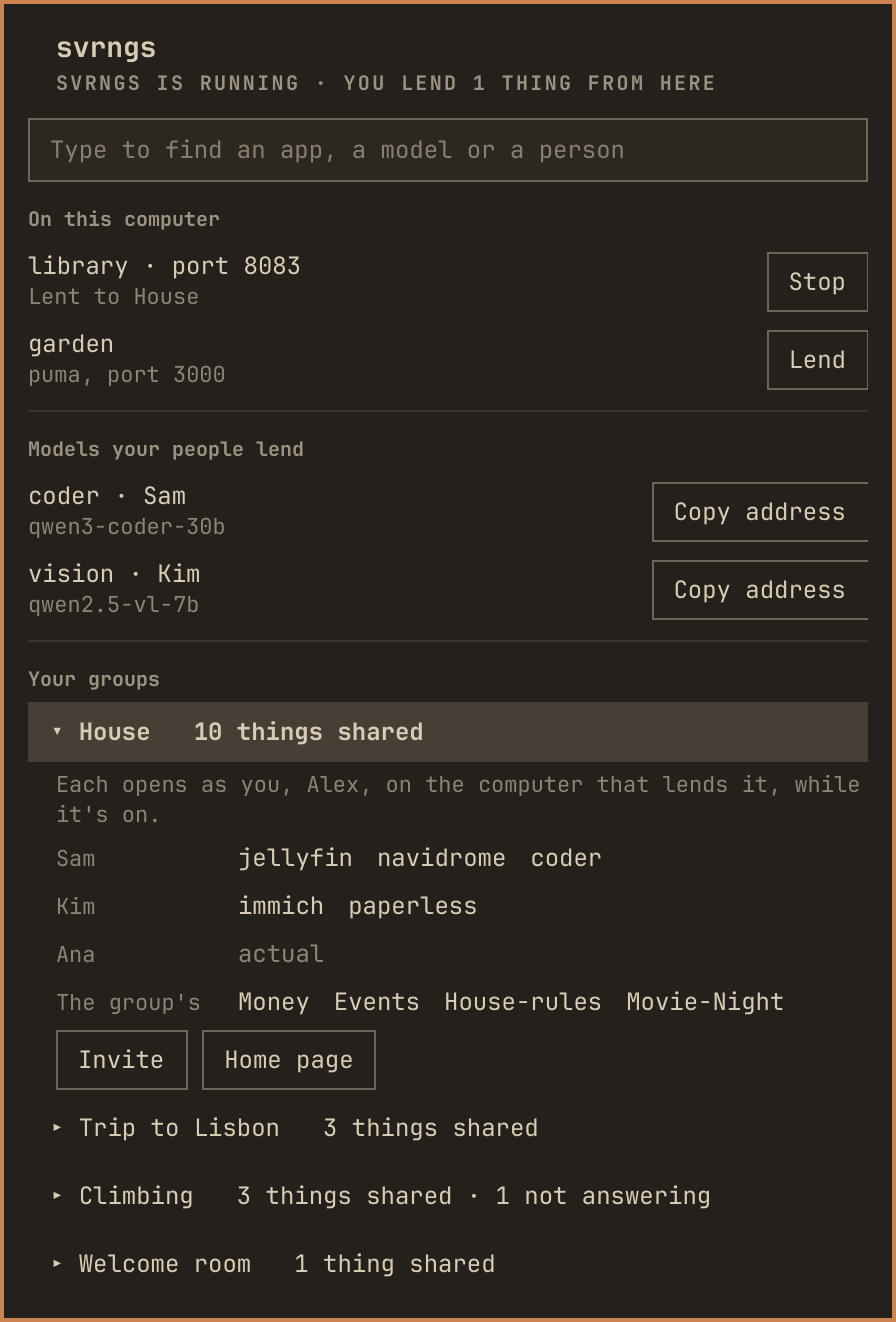
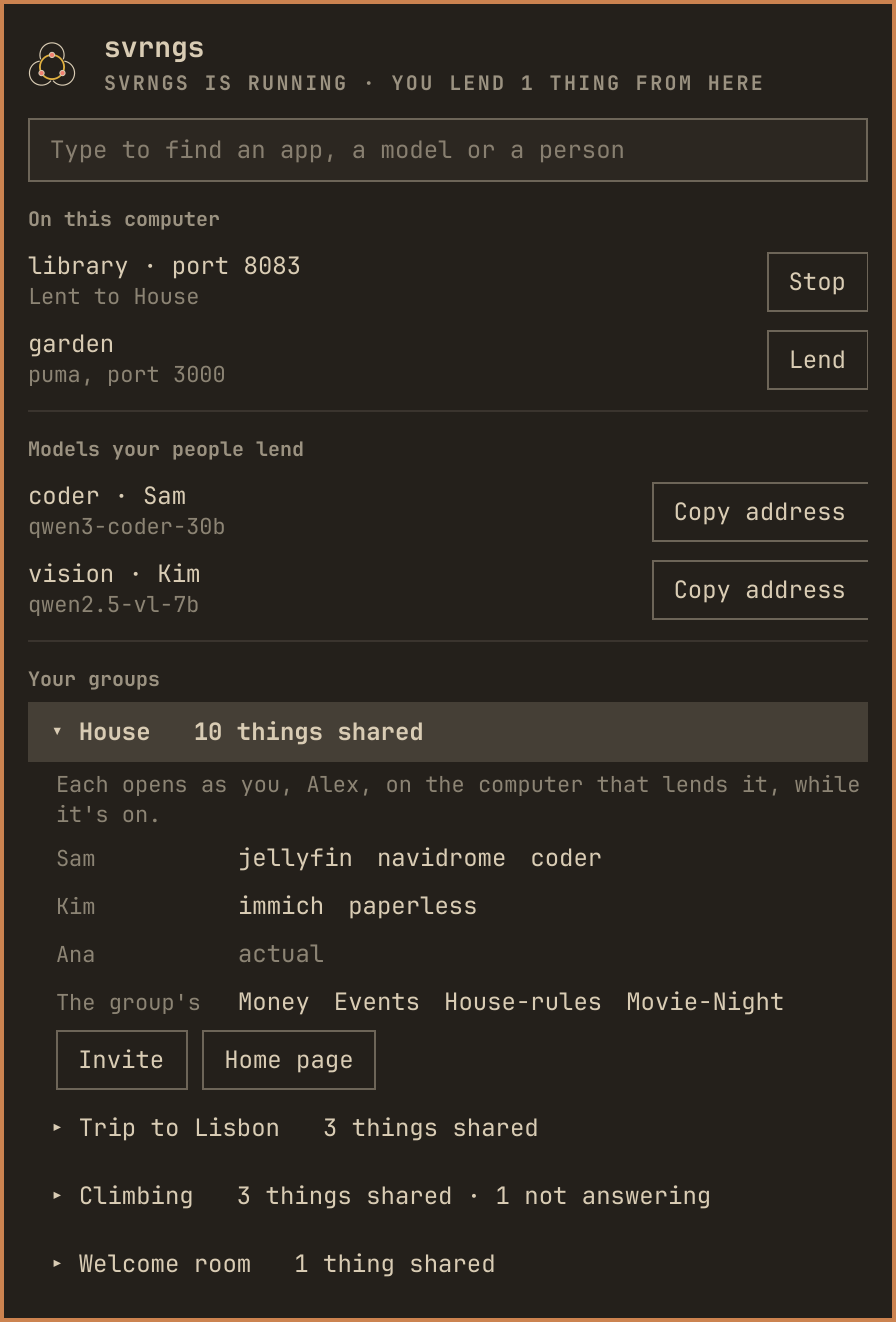
svrngs's mark: in the bar with its gold record, in the panel's header and the README
The bar's icon is svrngs's mark (svrngs docs/brand, the small cut for
under 32 px), drawn in QML from its own geometry (SvrngsMark.qml) in the
bar's ink with its record ring gold, both dimmed while svrngs isn't
running, the bar's warning colour when its answer couldn't be read, and a
slash when it isn't on the computer. It was picked from a study of four
drawings in four states at the bar's 12 px. In Omarchy's own button its
centring error is 0 by 0, as the font glyph's was. The panel's header
carries the medium cut in its own colours, and preview.png is redrawn.

The README opens with the lockup, a light and a dark copy for GitHub's
two themes (brand/). The launcher's icon belongs to svrngs-bin, which is
svrngs's packaging/arch now, so it is proposed there.

Tests: panel 88, with the gold, its dimming and the warning ink.

diff --git a/SvrngsMark.qml b/SvrngsMark.qml
@@ -1,0 +1,86 @@
+import QtQuick
+import QtQuick.Shapes
+
+// svrngs's mark, drawn from its own geometry (svrngs docs/brand/src/mark.mjs,
+// as mark-small.svg and mark-medium.svg draw it): three people, each a dot
+// with a ring, and the gold ring of the record they keep. `cut` is "small"
+// under 32 px, "medium" from 32 px (docs/brand/README.md, "One cut per
+// size"). Each colour is its own, so the bar can draw it in one ink.
+Item {
+  id: root
+
+  property real size: 16
+  property string cut: "small"
+  property color ink: "white"
+  property color record: "gold"
+  property color people: "salmon"
+  // A slash across it, in its ink: svrngs not on this computer.
+  property bool crossed: false
+
+  readonly property bool small: cut === "small"
+  // Each cut's viewBox: its origin and side.
+  readonly property real boxX: small ? -94.84 : -91.34
+  readonly property real boxY: small ? -106.34 : -102.84
+  readonly property real box: small ? 189.67 : 182.67
+  readonly property real recordWidth: small ? 14 : 7
+  readonly property real ringWidth: small ? 12 : 4.5
+  readonly property real dot: small ? 14 : 10
+  readonly property real dotWidth: small ? 6 : 4
+  readonly property var rings: small
+    ? ["M-44.71 -35.2 A46 46 0 1 1 44.71 -35.2", "M52.84 -21.12 A46 46 0 1 1 8.12 56.32", "M-8.12 56.32 A46 46 0 1 1 -52.84 -21.12"]
+    : ["M-42.87 -29.33 A46 46 0 1 1 42.87 -29.33", "M46.84 -22.46 A46 46 0 1 1 3.96 51.79", "M-3.96 51.79 A46 46 0 1 1 -46.84 -22.46"]
+
+  width: size
+  height: size
+  implicitWidth: size
+  implicitHeight: size
+
+  Shape {
+    width: root.box
+    height: root.box
+    preferredRendererType: Shape.CurveRenderer
+    transform: [
+      Translate { x: -root.boxX; y: -root.boxY },
+      Scale { xScale: root.size / root.box; yScale: root.size / root.box }
+    ]
+
+    ShapePath {
+      strokeColor: root.record
+      strokeWidth: root.recordWidth
+      fillColor: "transparent"
+      PathAngleArc { radiusX: 46; radiusY: 46; startAngle: 0; sweepAngle: 360 }
+    }
+    ShapePath {
+      strokeColor: root.ink; strokeWidth: root.ringWidth; fillColor: "transparent"; capStyle: ShapePath.FlatCap
+      PathSvg { path: root.rings[0] }
+    }
+    ShapePath {
+      strokeColor: root.ink; strokeWidth: root.ringWidth; fillColor: "transparent"; capStyle: ShapePath.FlatCap
+      PathSvg { path: root.rings[1] }
+    }
+    ShapePath {
+      strokeColor: root.ink; strokeWidth: root.ringWidth; fillColor: "transparent"; capStyle: ShapePath.FlatCap
+      PathSvg { path: root.rings[2] }
+    }
+    ShapePath {
+      strokeColor: root.ink; strokeWidth: root.dotWidth; fillColor: root.people
+      PathAngleArc { centerX: 0; centerY: -46; radiusX: root.dot; radiusY: root.dot; startAngle: 0; sweepAngle: 360 }
+    }
+    ShapePath {
+      strokeColor: root.ink; strokeWidth: root.dotWidth; fillColor: root.people
+      PathAngleArc { centerX: 39.84; centerY: 23; radiusX: root.dot; radiusY: root.dot; startAngle: 0; sweepAngle: 360 }
+    }
+    ShapePath {
+      strokeColor: root.ink; strokeWidth: root.dotWidth; fillColor: root.people
+      PathAngleArc { centerX: -39.84; centerY: 23; radiusX: root.dot; radiusY: root.dot; startAngle: 0; sweepAngle: 360 }
+    }
+    ShapePath {
+      strokeColor: root.crossed ? root.ink : "transparent"
+      strokeWidth: root.ringWidth * 1.3
+      fillColor: "transparent"
+      capStyle: ShapePath.RoundCap
+      startX: -70; startY: 50
+      PathLine { x: 70; y: -90 }
+    }
+  }
+}

diff --git a/tests/qml/shell.qml b/tests/qml/shell.qml
@@ -43,8 +43,6 @@ ShellRoot {
       ], unanswered: ["Bo"] } },
       listeners: [{ port: 3000, program: "puma", name: "garden", pid: 1 }]
     })
-    readonly property string group: ""
-    readonly property string outline: ""
 
     function show(answer) {
       fam.apply(typeof answer === "string" ? answer : JSON.stringify(answer))
@@ -70,7 +68,7 @@ ShellRoot {
       console.log("the read at start, by the real helper")
       check("one read", fam.reads, 1)
       check("no svrngs here: not-installed", fam.state, "not-installed")
-      check("its glyph is the outline", barPanel.glyph, outline)
+      check("the mark is crossed out", fam.look.crossed, true)
       check("dimmed", same(barPanel.barIconColor, dim), true)
       check("both lends counted from their files", fam.lentHere, 2)
       check("no count while svrngs is not there to serve them", fam.badge, "")
@@ -78,18 +76,20 @@ ShellRoot {
       console.log("running")
       show({ svrngs: "running", groups: [] })
       check("lit", same(barPanel.barIconColor, lit), true)
-      check("the group glyph", barPanel.glyph, group)
+      check("the mark is not crossed out", fam.look.crossed, false)
       check("no warning", fam.look.warning, false)
       check("the count of lends beside it", fam.badge, "2")
       check("the tooltip says both", barPanel.tooltip, "svrngs is running · You lend 2 things from here")
+      check("the mark's record ring is gold", same(barPanel.iconRecord, barPanel.gold), true)
 
       console.log("stopped")
       show({ svrngs: "stopped" })
       check("dimmed", same(barPanel.barIconColor, dim), true)
-      check("the group glyph", barPanel.glyph, group)
+      check("the mark is not crossed out", fam.look.crossed, false)
       check("no count", fam.badge, "")
       check("no warning", fam.look.warning, false)
       check("the tooltip", barPanel.tooltip, "svrngs isn't running")
+      check("the gold dims with it", same(barPanel.iconRecord, Qt.darker(barPanel.gold, 1.6)), true)
 
       console.log("never started")
       show({ svrngs: "never-started" })
@@ -99,6 +99,7 @@ ShellRoot {
       console.log("an answer that could not be read is not stopped")
       show({ svrngs: "unreadable", reason: "/v1/groups answered 500: the record could not be read" })
       check("a warning", fam.look.warning, true)
+      check("the mark takes the bar's warning colour", same(barPanel.iconInk, barPanel.urgentColor), true)
       check("not lit", same(barPanel.barIconColor, dim), true)
       check("no count", fam.badge, "")
       check("the tooltip says so", barPanel.tooltip, "svrngs's answer couldn't be read")

diff --git a/Panel.qml b/Panel.qml
@@ -28,9 +28,13 @@ Panel {
   readonly property color foreground: bar ? bar.barForeground : Commons.Color.foreground
   readonly property color dim: Qt.darker(foreground, 1.55)
   readonly property color barIconColor: fam.look.lit ? foreground : dim
-  // nf-md-account_group, and its outline when svrngs is not on this
-  // computer at all.
-  readonly property string glyph: fam.look.crossed ? "" : ""
+  // svrngs's mark in the bar (svrngs docs/brand): the bar's ink, its record
+  // ring gold, both dimmed while svrngs isn't running; the bar's warning
+  // colour when its answer couldn't be read; a slash when it isn't here.
+  readonly property color gold: "#e0b040"
+  readonly property color urgentColor: bar ? bar.urgent : Commons.Color.urgent
+  readonly property color iconInk: fam.look.warning ? urgentColor : barIconColor
+  readonly property color iconRecord: fam.look.lit ? gold : Qt.darker(gold, 1.6)
 
   readonly property string stateWords: strings.t(Model.words(fam.answer))
   readonly property string lentWords: fam.badge === "" ? "" : strings.tn("lent.count", fam.lentHere).arg(fam.lentHere)
@@ -229,9 +233,16 @@ Panel {
     bar: root.bar
     // Lit only while svrngs answers; an answer that could not be read takes
     // the bar's urgent colour, never the stopped look.
-    text: root.glyph
     foreground: root.barIconColor
-    active: fam.look.warning
+    iconComponent: Component {
+      SvrngsMark {
+        size: Style.bar.iconCanvas
+        ink: root.iconInk
+        record: root.iconRecord
+        people: root.iconInk
+        crossed: fam.look.crossed
+      }
+    }
     labelText: fam.badge
     tooltipText: root.tooltip
     onPressed: function(buttonCode) {
@@ -382,6 +393,9 @@ Panel {
           PanelHero {
             width: parent.width
             title: "svrngs"
+            iconComponent: Component {
+              SvrngsMark { cut: "medium"; size: Style.font.display; ink: root.foreground; record: root.gold; people: "#f08070" }
+            }
             meta: root.tooltip
             detail: fam.answer && fam.answer.reason ? fam.answer.reason : ""
             foreground: root.foreground

diff --git a/tests/preview.py b/tests/preview.py
@@ -19,7 +19,7 @@ with tempfile.TemporaryDirectory(prefix="svrngs-fam-preview-") as directory:
     harness = scratch / "harness"
     harness.mkdir()
     shutil.copy(ROOT / "tests/preview/shell.qml", harness / "shell.qml")
-    for name in ("Service.qml", "Model.js"):
+    for name in ("Service.qml", "Model.js", "SvrngsMark.qml"):
         shutil.copy(ROOT / name, harness / name)
     shutil.copytree(ROOT / "i18n", harness / "i18n")
     shutil.copy(ROOT / "Panel.qml", harness / "BarPanel.qml")

diff --git a/tests/qml_logic.py b/tests/qml_logic.py
@@ -31,7 +31,7 @@ with tempfile.TemporaryDirectory(prefix="svrngs-fam-qml-") as directory:
     harness = scratch / "harness"
     harness.mkdir()
     shutil.copy(ROOT / "tests/qml/shell.qml", harness / "shell.qml")
-    for name in ("Service.qml", "Model.js"):
+    for name in ("Service.qml", "Model.js", "SvrngsMark.qml"):
         shutil.copy(ROOT / name, harness / name)
     shutil.copytree(ROOT / "keys", harness / "keys")
     shutil.copytree(ROOT / "i18n", harness / "i18n")

diff --git a/README.md b/README.md
@@ -1,3 +1,8 @@
+<picture>
+  <source media="(prefers-color-scheme: dark)" srcset="brand/lockup-dark.svg">
+  <img alt="svrngs, sovereign rings" src="brand/lockup-light.svg" width="280">
+</picture>
+
 # svrngs.fam
 
 Your [svrngs](https://github.com/alexsbryan/svrngs) groups, in the Omarchy bar.
